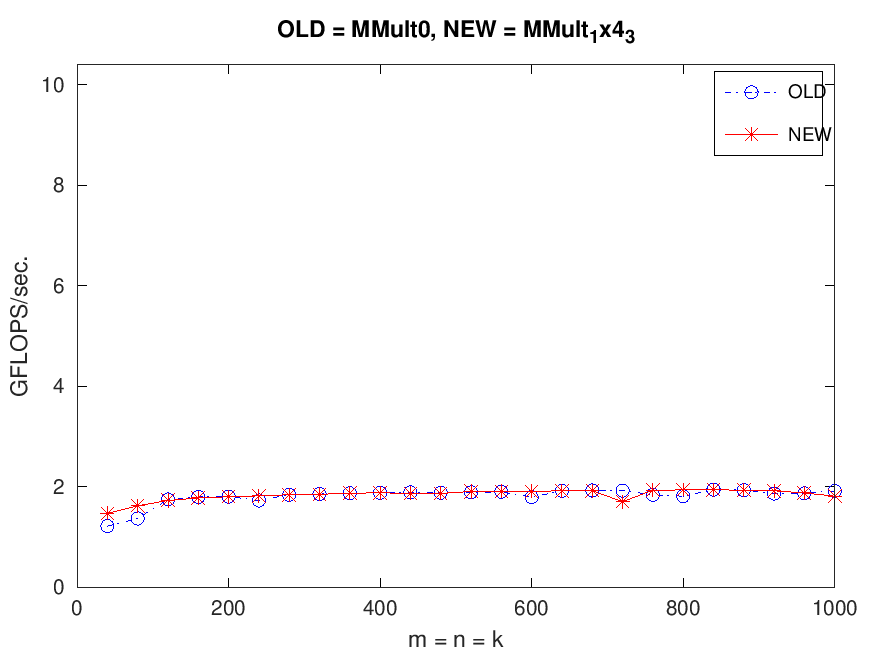
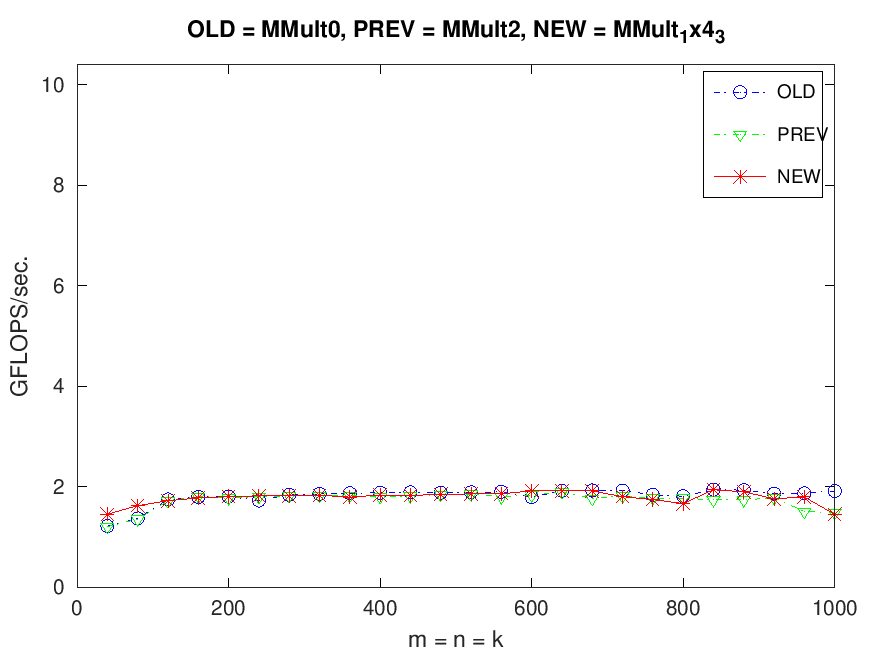
update: support $(PREV)

diff --git a/src/HowToOptimizeGemm/output_prev.m b/src/HowToOptimizeGemm/output_prev.m
@@ -1,28 +1,28 @@
-version = 'MMult1';
+version = 'MMult2';
 MY_MMult = [
-40 1.230769e+00 0.000000e+00 
-80 1.374497e+00 0.000000e+00 
-120 1.602225e+00 0.000000e+00 
-160 1.781257e+00 0.000000e+00 
-200 1.807297e+00 0.000000e+00 
-240 1.813221e+00 0.000000e+00 
-280 1.830706e+00 0.000000e+00 
-320 1.838472e+00 0.000000e+00 
-360 1.878677e+00 0.000000e+00 
-400 1.886653e+00 0.000000e+00 
-440 1.894831e+00 0.000000e+00 
-480 1.900386e+00 0.000000e+00 
-520 1.907907e+00 0.000000e+00 
-560 1.913987e+00 0.000000e+00 
-600 1.916346e+00 0.000000e+00 
-640 1.882650e+00 0.000000e+00 
-680 1.862821e+00 0.000000e+00 
-720 1.723376e+00 0.000000e+00 
-760 1.937318e+00 0.000000e+00 
-800 1.931514e+00 0.000000e+00 
-840 1.818674e+00 0.000000e+00 
-880 1.778657e+00 0.000000e+00 
-920 1.941439e+00 0.000000e+00 
-960 1.932761e+00 0.000000e+00 
-1000 1.906950e+00 0.000000e+00 
+40 1.207547e+00 0.000000e+00 
+80 1.356291e+00 0.000000e+00 
+120 1.718548e+00 0.000000e+00 
+160 1.811988e+00 0.000000e+00 
+200 1.780944e+00 0.000000e+00 
+240 1.802112e+00 0.000000e+00 
+280 1.821592e+00 0.000000e+00 
+320 1.824245e+00 0.000000e+00 
+360 1.827211e+00 0.000000e+00 
+400 1.801269e+00 0.000000e+00 
+440 1.817802e+00 0.000000e+00 
+480 1.849303e+00 0.000000e+00 
+520 1.851628e+00 0.000000e+00 
+560 1.800322e+00 0.000000e+00 
+600 1.837110e+00 0.000000e+00 
+640 1.895001e+00 0.000000e+00 
+680 1.768966e+00 0.000000e+00 
+720 1.814892e+00 0.000000e+00 
+760 1.777450e+00 0.000000e+00 
+800 1.773756e+00 0.000000e+00 
+840 1.739658e+00 0.000000e+00 
+880 1.738606e+00 0.000000e+00 
+920 1.781059e+00 0.000000e+00 
+960 1.510208e+00 0.000000e+00 
+1000 1.487907e+00 0.000000e+00 
 ];

diff --git a/src/HowToOptimizeGemm/output_MMult_1x4_3.m b/src/HowToOptimizeGemm/output_MMult_1x4_3.m
@@ -1,28 +1,28 @@
 version = 'MMult_1x4_3';
 MY_MMult = [
-40 1.471264e+00 0.000000e+00 
-80 1.622821e+00 0.000000e+00 
-120 1.727136e+00 0.000000e+00 
-160 1.777392e+00 0.000000e+00 
-200 1.803427e+00 0.000000e+00 
-240 1.819187e+00 0.000000e+00 
-280 1.843002e+00 0.000000e+00 
-320 1.850359e+00 0.000000e+00 
-360 1.872269e+00 0.000000e+00 
-400 1.880307e+00 0.000000e+00 
-440 1.871806e+00 0.000000e+00 
-480 1.868976e+00 0.000000e+00 
-520 1.906355e+00 0.000000e+00 
-560 1.910718e+00 0.000000e+00 
-600 1.908035e+00 0.000000e+00 
-640 1.920814e+00 0.000000e+00 
-680 1.920383e+00 0.000000e+00 
-720 1.703621e+00 0.000000e+00 
-760 1.933691e+00 0.000000e+00 
-800 1.937735e+00 0.000000e+00 
-840 1.939876e+00 0.000000e+00 
-880 1.933503e+00 0.000000e+00 
-920 1.920365e+00 0.000000e+00 
-960 1.876898e+00 0.000000e+00 
-1000 1.813464e+00 0.000000e+00 
+40 1.207547e+00 0.000000e+00 
+80 1.356291e+00 0.000000e+00 
+120 1.434025e+00 0.000000e+00 
+160 1.782032e+00 0.000000e+00 
+200 1.798763e+00 0.000000e+00 
+240 1.814888e+00 0.000000e+00 
+280 1.842074e+00 0.000000e+00 
+320 1.861342e+00 0.000000e+00 
+360 1.872720e+00 0.000000e+00 
+400 1.881274e+00 0.000000e+00 
+440 1.872279e+00 0.000000e+00 
+480 1.850850e+00 0.000000e+00 
+520 1.865768e+00 0.000000e+00 
+560 1.895539e+00 0.000000e+00 
+600 1.865357e+00 0.000000e+00 
+640 1.847607e+00 0.000000e+00 
+680 1.799752e+00 0.000000e+00 
+720 1.921428e+00 0.000000e+00 
+760 1.921486e+00 0.000000e+00 
+800 1.706627e+00 0.000000e+00 
+840 1.920454e+00 0.000000e+00 
+880 1.728918e+00 0.000000e+00 
+920 1.899603e+00 0.000000e+00 
+960 1.679150e+00 0.000000e+00 
+1000 1.594144e+00 0.000000e+00 
 ];

diff --git a/src/HowToOptimizeGemm/output_MMult_1x4_4.m b/src/HowToOptimizeGemm/output_MMult_1x4_4.m
@@ -1,28 +1,28 @@
 version = 'MMult_1x4_4';
 MY_MMult = [
-40 1.454545e+00 0.000000e+00 
-80 1.630573e+00 0.000000e+00 
-120 1.737557e+00 0.000000e+00 
-160 1.789819e+00 0.000000e+00 
-200 1.790911e+00 0.000000e+00 
-240 1.811677e+00 0.000000e+00 
-280 1.843389e+00 0.000000e+00 
-320 1.852608e+00 0.000000e+00 
-360 1.857029e+00 0.000000e+00 
-400 1.869705e+00 0.000000e+00 
-440 1.870203e+00 0.000000e+00 
-480 1.884727e+00 0.000000e+00 
-520 1.895204e+00 0.000000e+00 
-560 1.901100e+00 0.000000e+00 
-600 1.910744e+00 0.000000e+00 
-640 1.889789e+00 0.000000e+00 
-680 1.861933e+00 0.000000e+00 
-720 1.888668e+00 0.000000e+00 
-760 1.816717e+00 0.000000e+00 
-800 1.810291e+00 0.000000e+00 
-840 1.789865e+00 0.000000e+00 
-880 1.783573e+00 0.000000e+00 
-920 1.793747e+00 0.000000e+00 
-960 1.821830e+00 0.000000e+00 
-1000 1.780242e+00 0.000000e+00 
+40 1.471264e+00 0.000000e+00 
+80 1.627981e+00 0.000000e+00 
+120 1.741058e+00 0.000000e+00 
+160 1.778936e+00 0.000000e+00 
+200 1.787110e+00 0.000000e+00 
+240 1.799649e+00 0.000000e+00 
+280 1.820761e+00 0.000000e+00 
+320 1.824905e+00 0.000000e+00 
+360 1.832846e+00 0.000000e+00 
+400 1.837998e+00 0.000000e+00 
+440 1.845507e+00 0.000000e+00 
+480 1.852369e+00 0.000000e+00 
+520 1.854449e+00 0.000000e+00 
+560 1.854651e+00 0.000000e+00 
+600 1.830353e+00 0.000000e+00 
+640 1.831587e+00 0.000000e+00 
+680 1.732026e+00 0.000000e+00 
+720 1.824019e+00 0.000000e+00 
+760 1.796439e+00 0.000000e+00 
+800 1.686418e+00 0.000000e+00 
+840 1.729114e+00 0.000000e+00 
+880 1.719072e+00 0.000000e+00 
+920 1.708678e+00 0.000000e+00 
+960 1.744140e+00 0.000000e+00 
+1000 1.445516e+00 0.000000e+00 
 ];

diff --git a/src/HowToOptimizeGemm/output_new.m b/src/HowToOptimizeGemm/output_new.m
@@ -1,28 +1,28 @@
-version = 'MMult2';
+version = 'MMult_1x4_3';
 MY_MMult = [
 40 1.207547e+00 0.000000e+00 
 80 1.356291e+00 0.000000e+00 
-120 1.718548e+00 0.000000e+00 
-160 1.811988e+00 0.000000e+00 
-200 1.780944e+00 0.000000e+00 
-240 1.802112e+00 0.000000e+00 
-280 1.821592e+00 0.000000e+00 
-320 1.824245e+00 0.000000e+00 
-360 1.827211e+00 0.000000e+00 
-400 1.801269e+00 0.000000e+00 
-440 1.817802e+00 0.000000e+00 
-480 1.849303e+00 0.000000e+00 
-520 1.851628e+00 0.000000e+00 
-560 1.800322e+00 0.000000e+00 
-600 1.837110e+00 0.000000e+00 
-640 1.895001e+00 0.000000e+00 
-680 1.768966e+00 0.000000e+00 
-720 1.814892e+00 0.000000e+00 
-760 1.777450e+00 0.000000e+00 
-800 1.773756e+00 0.000000e+00 
-840 1.739658e+00 0.000000e+00 
-880 1.738606e+00 0.000000e+00 
-920 1.781059e+00 0.000000e+00 
-960 1.510208e+00 0.000000e+00 
-1000 1.487907e+00 0.000000e+00 
+120 1.434025e+00 0.000000e+00 
+160 1.782032e+00 0.000000e+00 
+200 1.798763e+00 0.000000e+00 
+240 1.814888e+00 0.000000e+00 
+280 1.842074e+00 0.000000e+00 
+320 1.861342e+00 0.000000e+00 
+360 1.872720e+00 0.000000e+00 
+400 1.881274e+00 0.000000e+00 
+440 1.872279e+00 0.000000e+00 
+480 1.850850e+00 0.000000e+00 
+520 1.865768e+00 0.000000e+00 
+560 1.895539e+00 0.000000e+00 
+600 1.865357e+00 0.000000e+00 
+640 1.847607e+00 0.000000e+00 
+680 1.799752e+00 0.000000e+00 
+720 1.921428e+00 0.000000e+00 
+760 1.921486e+00 0.000000e+00 
+800 1.706627e+00 0.000000e+00 
+840 1.920454e+00 0.000000e+00 
+880 1.728918e+00 0.000000e+00 
+920 1.899603e+00 0.000000e+00 
+960 1.679150e+00 0.000000e+00 
+1000 1.594144e+00 0.000000e+00 
 ];
